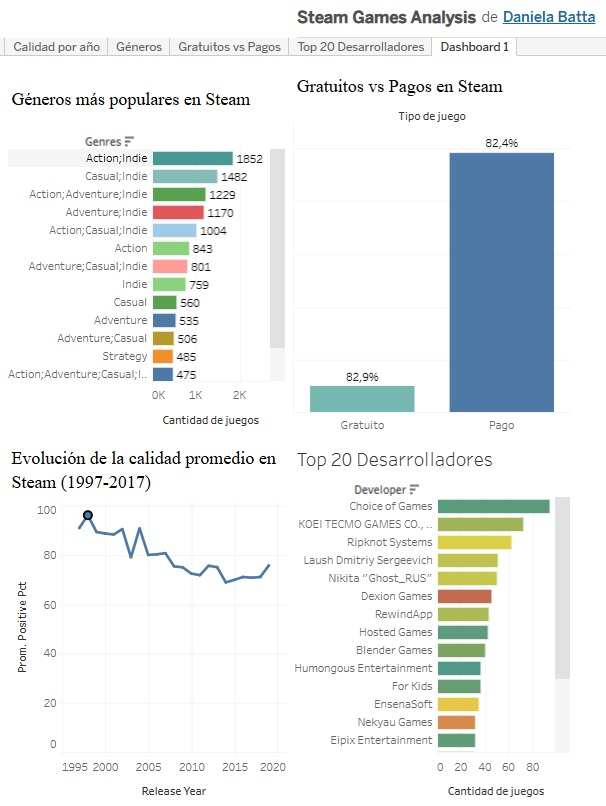
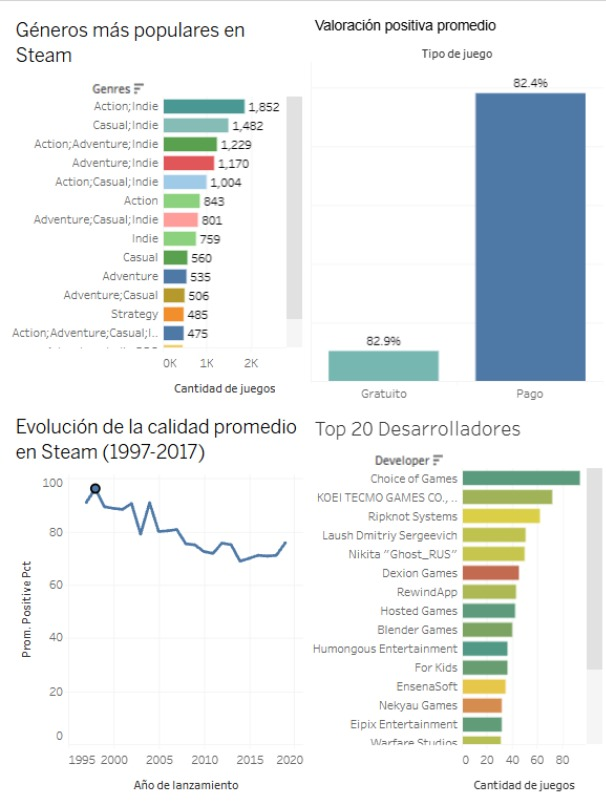
V

diff --git a/README.md b/README.md
@@ -35,6 +35,9 @@ Python | Pandas | SQL | SQLite | Tableau Public
 
 - ## Conclusión
 
-El catálogo de Steam es mayormente independiente: el género indie domina en volumen y diversidad. Sin embargo, más cantidad no garantiza mejor reputación — los datos muestran que desarrolladores con alta producción y baja calidad terminan destruyendo su propia marca.
-
-Para un publisher indie, el análisis sugiere: es mejor publicar pocos juegos con alta calidad que inundar el catálogo. El precio no es determinante de la percepción del jugador — lo que importa es la consistencia en la entrega.
+- El género indie domina el catálogo de Steam en volumen y diversidad.
+- Más juegos no implica mejor reputación: los desarrolladores más prolíficos 
+  no son necesariamente los mejor valorados.
+- Gratuitos y pagos tienen valoraciones casi idénticas (~82%), 
+  lo que sugiere que el precio no define la calidad percibida.
+- La calidad consistente parece ser el diferenciador real.
